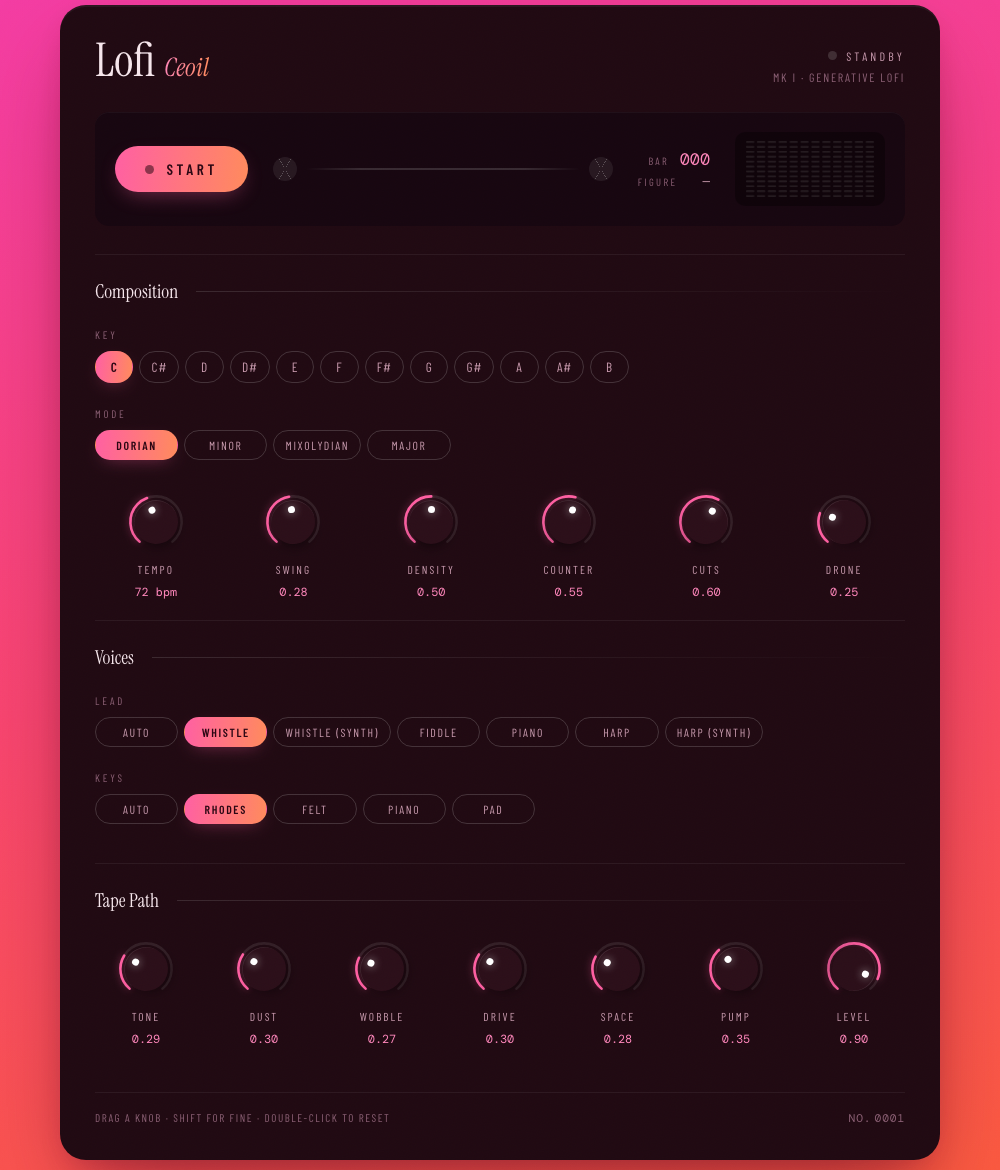
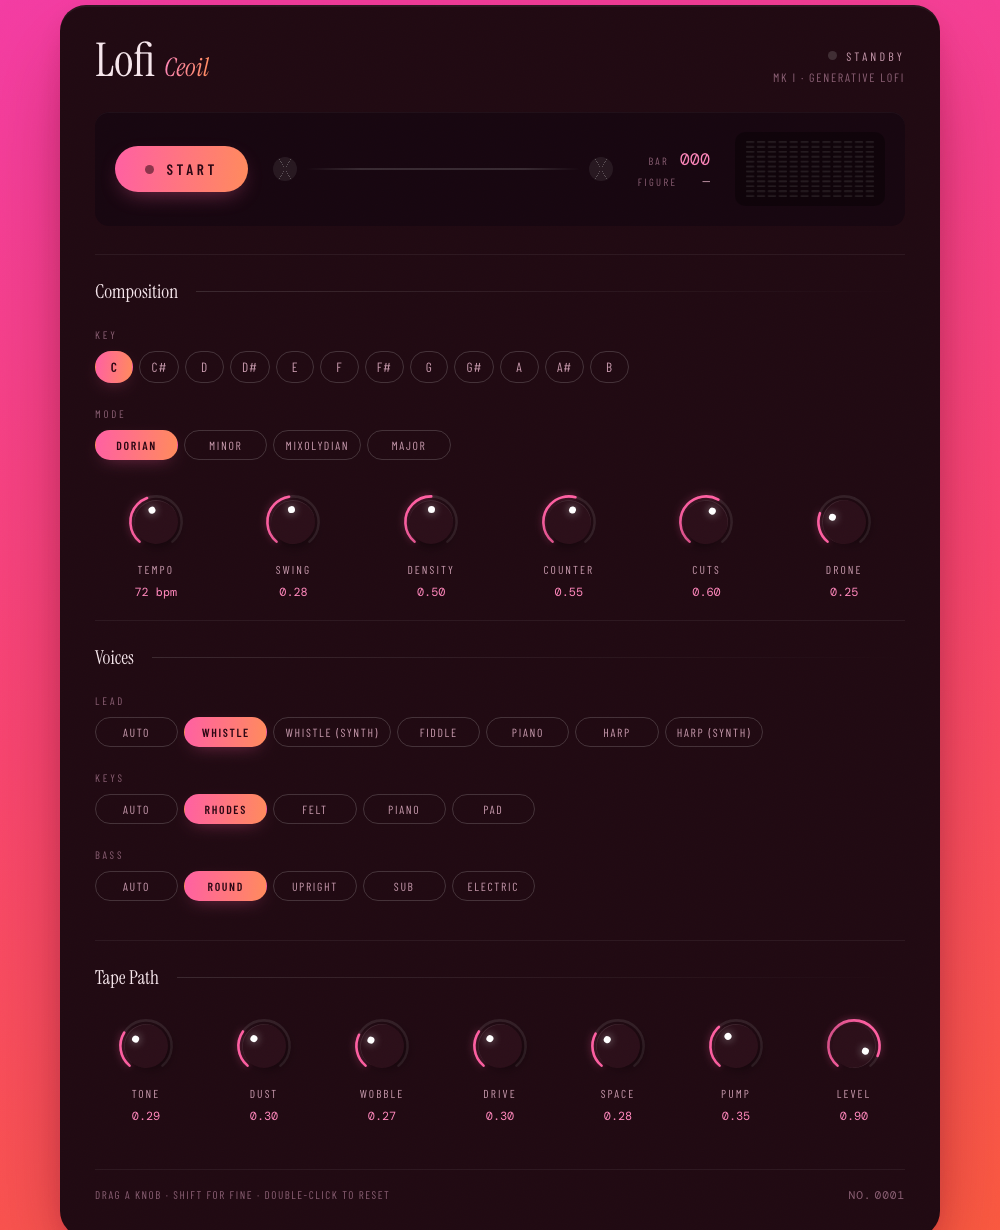
Give the bass four voices
The low end had seven patterns and one timbre. The patterns changed how it
moves; these change what it is, and the bass does more work than any other
single part.

round is the original triangle. upright is a pizzicato double bass — a fast
filter sweep for the finger against the string and almost no sustain for the
short woody decay. sub is near a pure sine, felt more than heard, and sits well
under the sparse and held patterns. electric is fingered, with more sustain and
a brighter edge so it carries through a busier arrangement.

In auto the bass changes least often of the three voices, a quarter of the
times the lead does. It is the foundation, and a foundation that keeps changing
is not one.

Verified: all four swap cleanly under playback and the bass keeps sounding
afterwards, with no scheduling failures.

Roadmap item 15.

diff --git a/src/engine.js b/src/engine.js
@@ -2,10 +2,11 @@
 // the knobs write into, and drives the bar-by-bar scheduling.
 
 import * as Tone from 'tone';
-import { KEYS_VOICES, LEAD_VOICES, createBass, createDrums, createDrone, createPluck, createVinyl } from './instruments.js';
+import { KEYS_VOICES, LEAD_VOICES, BASS_VOICES, createDrums, createDrone, createPluck, createVinyl } from './instruments.js';
 
 const LEAD_VOICE_NAMES = Object.keys (LEAD_VOICES);
 const KEYS_VOICE_NAMES = Object.keys (KEYS_VOICES);
+const BASS_VOICE_NAMES = Object.keys (BASS_VOICES);
 import { createChain } from './effects.js';
 import { PROGRESSIONS, NOTE_NAMES, noteNameToMidi, findPivot } from './theory.js';
 import { createMotif, developPhrase, gappedPool, planCounter } from './melody.js';
@@ -29,7 +30,7 @@ export function createEngine () {
   let keys = KEYS_VOICES.rhodes();
   let lead = LEAD_VOICES.whistle();
 
-  const bass = createBass();
+  let bass = BASS_VOICES.round();
   const drums = createDrums();
   const drone = createDrone();
   const pluck = createPluck();
@@ -55,10 +56,12 @@ export function createEngine () {
 
     keysVoice: 'rhodes',
     leadVoice: 'whistle',
+    bassVoice: 'round',
 
     // When true, the arrangement chooses these voices itself.
     autoVoice: false,
     autoKeysVoice: false,
+    autoBassVoice: false,
 
     // Notified when a voice swap starts and when it is ready to play.
     onVoice: null,
@@ -181,6 +184,7 @@ export function createEngine () {
   function planVoices (arrangement) {
     let lead = state.leadVoice;
     let keysName = state.keysVoice;
+    let bassName = state.bassVoice;
 
     arrangement.forEach ((part, index) => {
       const previous = arrangement[index - 1];
@@ -197,8 +201,15 @@ export function createEngine () {
         keysName = pickFrom (KEYS_VOICE_NAMES.filter (name => name !== keysName));
       }
 
+      // The bass moves least often of the three. It is the foundation, and a
+      // foundation that keeps changing is not one.
+      if (followsADrop && Math.random() < 0.25) {
+        bassName = pickFrom (BASS_VOICE_NAMES.filter (name => name !== bassName));
+      }
+
       part.leadVoice = lead;
       part.keysVoice = keysName;
+      part.bassVoice = bassName;
     });
 
     return arrangement;
@@ -401,6 +412,7 @@ export function createEngine () {
     if (barInPart === 0) {
       if (state.autoVoice && plan.leadVoice) swapVoice ('lead', plan.leadVoice);
       if (state.autoKeysVoice && plan.keysVoice) swapVoice ('keys', plan.keysVoice);
+      if (state.autoBassVoice && plan.bassVoice) swapVoice ('bass', plan.bassVoice);
     }
 
     // Winding down to end the set: the last part sheds its layers a bar at a
@@ -556,11 +568,11 @@ export function createEngine () {
       throws "buffer is either not set or not loaded" on the next note. The old
       voice keeps playing until then, which also means the swap has no gap. */
   function swapVoice (kind, name) {
-    const table = kind === 'keys' ? KEYS_VOICES : LEAD_VOICES;
+    const table = kind === 'keys' ? KEYS_VOICES : kind === 'bass' ? BASS_VOICES : LEAD_VOICES;
     const factory = table[name];
     if (! factory) return;
 
-    const current = kind === 'keys' ? keys : lead;
+    const current = kind === 'keys' ? keys : kind === 'bass' ? bass : lead;
     if (current.name === name) return;
 
     const token = ++swapToken;
@@ -581,6 +593,10 @@ export function createEngine () {
         keys = next;
         state.keys = next.voice;
         state.keysVoice = name;
+      } else if (kind === 'bass') {
+        bass = next;
+        state.bass = next.voice;
+        state.bassVoice = name;
       } else {
         lead = next;
         state.lead = next.voice;
@@ -689,6 +705,10 @@ export function createEngine () {
 
     keysVoice (name) {
       swapVoice ('keys', name);
+    },
+
+    bassVoice (name) {
+      swapVoice ('bass', name);
     },
 
     leadVoice (name) {

diff --git a/src/instruments.js b/src/instruments.js
@@ -238,9 +238,15 @@ export const LEAD_VOICES = {
 
 // ------------------------------------------------------------------ others
 
+// ------------------------------------------------------------------- bass
+//
+// The low end had seven patterns and one timbre. The patterns changed how it
+// moves; these change what it is, and the bass is doing more work than any
+// other single part.
+
 /** Soft round bass. Triangle plus a touch of sub, through its own filter so it
     stays under the keys instead of fighting them. */
-export function createBass () {
+function bassRound () {
   const voice = new Tone.MonoSynth ({
     oscillator: { type: 'triangle' },
     filter: { Q: 1, type: 'lowpass', rolloff: -24 },
@@ -254,6 +260,65 @@ export function createBass () {
 
   return { voice, output: voice };
 }
+
+/** Upright, pizzicato. The lofi default. A fast filter sweep gives the finger
+    against the string, and almost no sustain gives the short woody decay of a
+    plucked double bass. */
+function bassUpright () {
+  const voice = new Tone.MonoSynth ({
+    oscillator: { type: 'triangle' },
+    filter: { Q: 1.4, type: 'lowpass', rolloff: -24 },
+    envelope: { attack: 0.006, decay: 0.5, sustain: 0.06, release: 0.5 },
+    filterEnvelope: {
+      attack: 0.004, decay: 0.14, sustain: 0.08, release: 0.3,
+      baseFrequency: 90, octaves: 3.2
+    },
+    volume: -9
+  });
+
+  return { voice, output: voice };
+}
+
+/** Sub. Near a pure sine, felt more than heard. Sits well under the sparse and
+    held patterns, badly under the busy ones. */
+function bassSub () {
+  const voice = new Tone.MonoSynth ({
+    oscillator: { type: 'sine' },
+    filter: { Q: 0.6, type: 'lowpass', rolloff: -12 },
+    envelope: { attack: 0.06, decay: 0.3, sustain: 0.85, release: 1.4 },
+    filterEnvelope: {
+      attack: 0.05, decay: 0.3, sustain: 0.6, release: 1,
+      baseFrequency: 60, octaves: 1.2
+    },
+    volume: -7
+  });
+
+  return { voice, output: voice };
+}
+
+/** Fingered electric. More sustain than the upright and a brighter edge, so it
+    carries through a busier arrangement. */
+function bassElectric () {
+  const voice = new Tone.MonoSynth ({
+    oscillator: { type: 'sawtooth' },
+    filter: { Q: 2, type: 'lowpass', rolloff: -24 },
+    envelope: { attack: 0.01, decay: 0.4, sustain: 0.45, release: 0.8 },
+    filterEnvelope: {
+      attack: 0.008, decay: 0.22, sustain: 0.2, release: 0.6,
+      baseFrequency: 110, octaves: 2.6
+    },
+    volume: -13
+  });
+
+  return { voice, output: voice };
+}
+
+export const BASS_VOICES = {
+  round: bassRound,
+  upright: bassUpright,
+  sub: bassSub,
+  electric: bassElectric
+};
 
 /** The counter line's voice: a pluck, distinct from whichever lead is chosen. */
 export function createPluck () {

diff --git a/index.html b/index.html
@@ -94,6 +94,11 @@
             <span class="selector-label">keys</span>
             <div class="segment" id="keysVoiceRow" role="radiogroup" aria-label="keys voice"></div>
           </div>
+
+          <div class="selector">
+            <span class="selector-label">bass</span>
+            <div class="segment" id="bassVoiceRow" role="radiogroup" aria-label="bass voice"></div>
+          </div>
         </div>
       </section>
 

diff --git a/src/main.js b/src/main.js
@@ -118,6 +118,10 @@ mountVoiceChooser ('keysVoiceRow',
   ['rhodes', 'felt', 'piano', 'pad'],
   'rhodes', value => engine.controls.keysVoice (value), 'autoKeysVoice');
 
+mountVoiceChooser ('bassVoiceRow',
+  ['round', 'upright', 'sub', 'electric'],
+  'round', value => engine.controls.bassVoice (value), 'autoBassVoice');
+
 const meter = createMeter();
 document.getElementById ('meterSlot').append (meter.element);
 

diff --git a/README.md b/README.md
@@ -59,9 +59,9 @@ Chords **voice-lead**: each voice moves to the nearest tone of the next chord an
 
 Then the tape path ruins it pleasantly: saturation, parallel bitcrushing, wow and flutter, a lowpass, reverb, and a bed of vinyl hiss and crackle that never pumps, because a record surface doesn't.
 
-**Voices are switchable while it plays.** The lead can be a `whistle`, a `fiddle`, a `piano` or a `harp`, with synthesised versions of the whistle and harp kept alongside the sampled ones; the keys a `rhodes`, a `felt` piano, a `piano` or a `pad`. Most are synthesised — a soft attack, a little chorus or detune, and a lowpass under the raw oscillator do most of the work of not sounding synthetic. The piano is **sampled**, because FM only gets so close to a struck string; its samples load only when you choose it.
+**Voices are switchable while it plays.** The lead can be a `whistle`, a `fiddle`, a `piano` or a `harp`, with synthesised versions of the whistle and harp kept alongside the sampled ones; the keys a `rhodes`, a `felt` piano, a `piano` or a `pad`; the bass `round`, `upright`, `sub` or `electric`. Most are synthesised — a soft attack, a little chorus or detune, and a lowpass under the raw oscillator do most of the work of not sounding synthetic. The piano is **sampled**, because FM only gets so close to a struck string; its samples load only when you choose it.
 
-Set either row to `auto` and the **arrangement picks the voice**: a part that follows a drop comes back on a different instrument, which is what gives a section return its lift. The chord voice changes less often than the lead, because if both change at once nothing carries across the seam. Pick a voice by hand and it stays put.
+Set either row to `auto` and the **arrangement picks the voice**: a part that follows a drop comes back on a different instrument, which is what gives a section return its lift. The chord voice changes less often than the lead, because if both change at once nothing carries across the seam, and the bass least often of all — it is the foundation. Pick a voice by hand and it stays put.
 
 Phrases can begin with an **anacrusis** — a pickup into the answering sentence, stepping toward its first note, the way an Irish tune starts on an upbeat rather than the downbeat. And a part's closing bar is sometimes **empty**: no harmony, no bass, no drums, so the tune lands on its cadence alone.
 

diff --git a/ROADMAP.md b/ROADMAP.md
@@ -32,7 +32,7 @@ Four techniques let us add variety without risk. Everything below is an applicat
 - [x] **12. Instrument voices** *(now including a sampled piano)*
 - [x] **13. Voice changes driven by the arrangement**
 - [ ] **14. The turntable — draggable vinyl that really scrubs**
-- [ ] **15. More bass voices**
+- [x] **15. More bass voices**
 - [ ] **16. Radio mode — tracks that segue**
 - [ ] **17. Generated tune names**
 - [ ] **18. Save the current tune**
@@ -287,7 +287,15 @@ The piano proved the point: synthesis has a ceiling for acoustic instruments, an
 
 Same lazy-load pattern as the piano: vendored, fetched only when chosen, with the panel showing a loading state. Each voice is roughly 500 kB, so they stay off the initial page load.
 
-## 15. More bass voices
+## 15. More bass voices — done
+
+Four voices, chosen by hand or by the arrangement: **`round`** (the original triangle), **`upright`** — pizzicato double bass, a fast filter sweep for the finger against the string and almost no sustain for the short woody decay — **`sub`**, near a pure sine and felt more than heard, and **`electric`**, fingered, with more sustain and a brighter edge so it carries through a busier arrangement.
+
+In `auto` the bass changes **least often of the three voices** — a quarter of the times the lead does. It is the foundation, and a foundation that keeps changing is not one.
+
+Upright remains a sampling candidate; a plucked double bass has a body resonance that a filter sweep only gestures at.
+
+### Original note
 
 The bass has one timbre and seven patterns. The patterns changed how it *moves*; a voice selector would change what it *is*, and the low end is doing more work than any other single part.
 
